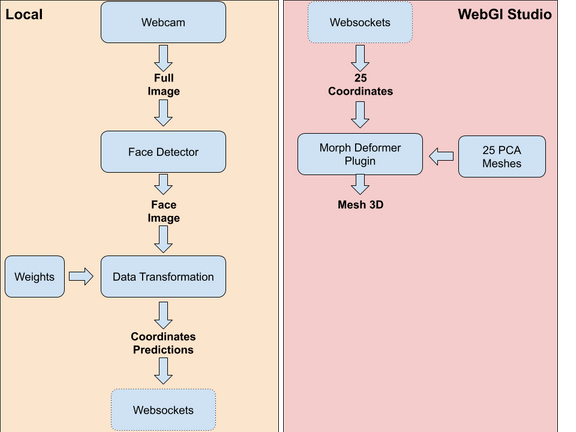
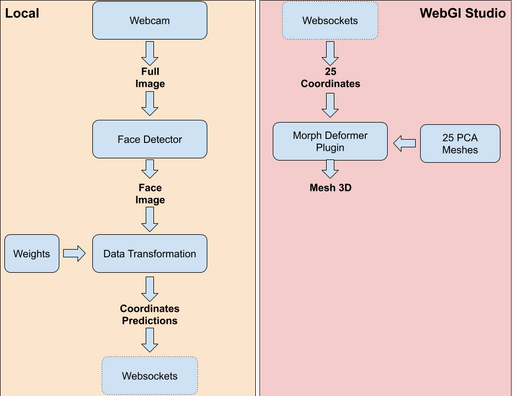
Fix the image size

diff --git a/README.md b/README.md
@@ -35,7 +35,7 @@ cloud using WebGL Studio.
 ![Train_Model](./Readme_Images/Train_Model_Small.png)
 
 ## Using the model
-![Use_Model](./Readme_Images/Use_Model_Small3.png)
+![Use_Model](./Readme_Images/Use_Model_Small.png)
 
 ## Results
 ![Avatar](./Readme_Images/Avatar_Small.png)  
